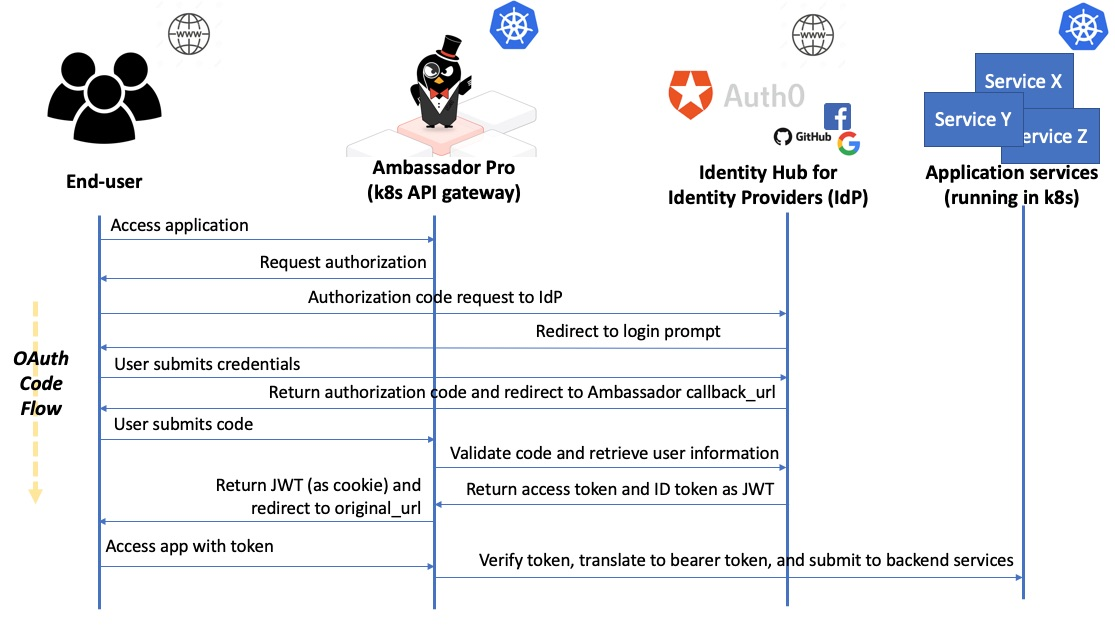
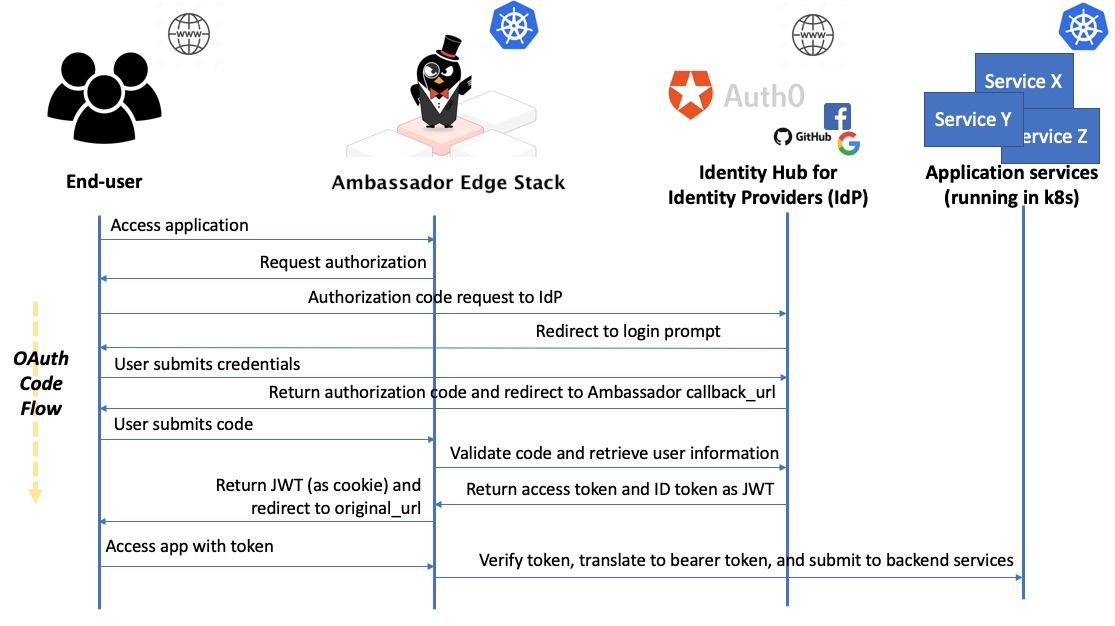
fixing lots of broken links and small issues

Changed region(s): [[0.2744, 0.2428, 0.5184, 0.3339]]

diff --git a/reference/debugging.md b/reference/debugging.md
@@ -19,8 +19,7 @@ If Ambassador Edge Stack is not starting or is not behaving as you would expect,
 * You want to manually change and experiment with the generated Envoy configuration
   * [Exec into an Ambassador Edge Stack Pod](#a-nameexamining-podaexamining-an-ambassadorenvoy-pod-and-container) and [manually experiment](#a-namemanually-experimentinga-manually-experimenting-with-ambassador--envoy-configuration) with changing the Envoy configuration and sending a SIGHUP to the parent process
 
-
-## <a name="example-config"></a>Example Config for Debug Demonstrations
+## Example Config for Debug Demonstrations
 
 The following debugging instructions assume that Ambassador Edge Stack and the following services from the
 [getting started guide](/user-guide/getting-started) have been deployed to a Kubernetes cluster.
@@ -69,7 +68,7 @@ And apply this into your cluster, e.g.:
 $ kubectl apply -f ambassador-services.yaml
 ```
 
-## <a name="check-running"></a>Checking Ambassador Edge Stack is running
+### Checking Ambassador Edge Stack is running
 
 If you cannot access the [diagnostics console](/reference/diagnostics) via ```kubectl port-forward <ambassador_pod_name> 8877```
 the first thing to check is that Ambassador Edge Stack is running. This can be achieved via
@@ -184,7 +183,7 @@ Events:
   Normal  Started                4m    kubelet, gke-ambassador-demo-default-pool-912378e5-dkxc  Started container
 ```
 
-## <a name="logs"></a>Getting Access to the Ambassador Edge Stack Logs
+### Getting Access to the Ambassador Edge Stack Logs
 
 The Ambassador Edge Stack logs can provide a lot of information if something isn't behaving as expected. There can be a lot of text to parse (especially when running in debug mode), but key information to look out for is the Ambassador Edge Stack process restarting unexpectedly, or malformed Envoy configuration.
 
@@ -212,7 +211,7 @@ $ kubectl logs ambassador-85c4cf67b-4pfj2
 
 By using the [Ambassador diagnostics console](/reference/diagnostics) you can click a button to "Set Debug On", and this causes Ambassador Edge Stack to generate a lot more logging. This can be useful when tracking down a particularly subtle bug.
 
-## <a name="examining-pod"></a>Examining an Ambassador Edge Stack/Envoy Pod and Container
+### Examining an Ambassador Edge Stack/Envoy Pod and Container
 
 It can sometimes be useful to examine the contents of the Ambassador Edge Stack Pod, for example, to check volume mounts are correct (e.g. TLS certificates are present in the required directory), to determine the latest Ambassador Edge Stack configuration has been sent to the Pod, or that the generated Envoy configuration is correct (or as expected).
 
@@ -290,7 +289,7 @@ The Envoy Proxy configuration that was generated from the Ambassador Edge Stack 
               {
 ```
 
-## <a name="manually-experimenting"></a> Manually Experimenting with Ambassador Edge Stack / Envoy configuration
+### Manually Experimenting with Ambassador Edge Stack / Envoy configuration
 
 If the generated Envoy configuration is not looking as expected, you can manually tweak this and restart the Envoy process. The general approach to this is to scale down the Ambassador Edge Stack Deployment to a single Pod in order to send all Ambassador Edge Stack traffic through this single instance (which is not recommended in production!), exec into the Pod and make the modification to the `envoy/envoy.json`. Then, restart the `ambex` process which will pass the updated `envoy.json` to Envoy. You can do this by getting the PID of `ambex` with `ps -ef | grep ambex`. Then run `kill -HUP $AMBEX_PID` to restart `ambex`.
 

diff --git a/concepts/auth-overview.md b/concepts/auth-overview.md
@@ -4,7 +4,7 @@ The implementation of an effective authentication strategy is vital to any appli
 
 Typically with web applications the authentication is implemented at the edge, either via an API/edge gateway, or via a top-level request filter within your application framework. It is also increasingly common for applications to use external identity providers -- such as Google, GitHub, or Facebook -- typically via an Identity hub like [Auth0](https://auth0.com/), [Keycloak](https://www.keycloak.org/) or [Okta](https://www.okta.com/) that provides authentication-as-a-service, rather than taking on the high cost (and risk) of maintaining their own identity database.
 
-This article is focused on implementing authentication at the edge with the Kubernetes-native [Ambassador Edge Stack API gateway](https://www.getambassador.io/pro/), and shows an example of how to integrate this with third-party identity providers.
+This article is focused on implementing authentication at the edge with the Kubernetes-native Ambassador Edge Stack API gateway, and shows an example of how to integrate this with third-party identity providers.
 
 ## How Ambassador Edge Stack Integrates with OAuth and OIDC
 
@@ -28,11 +28,12 @@ If you look back at the authentication process diagram, the function of the enti
 
 ## Why Use an Identity Hub like Auth0 or Keycloak?
 
-Using an identity hub or broker allows you to support many IdPs without having to code individual integrations with them. For example, [Auth0](https://auth0.com/docs/identityproviders) and [Keycloak](https://www.keycloak.org/docs/2.5/server_admin/topics/identity-broker/social-login.html) both offer support for using Google and GitHub as an IdP.
+Using an identity hub or broker allows you to support many IdPs without having to code individual integrations with them. For example, [Auth0](https://auth0.com/docs/identityproviders) and [Keycloak](https://www.keycloak.org/docs/latest/server_admin/index.html#social-identity-providers) both offer support for using Google and GitHub as an IdP.
 
 An identity hub sits between your application and the IdP that authenticates your users, which not only adds a level of abstraction so that your application (and Ambassador Edge Stack) is isolated from any changes to each provider's implementation, but it also allows your users to chose which provider they use to authenticate (and you can set a default, or restrict these options).
 
-The Auth0 docs provide a guide for adding social IdP "[connections](https://auth0.com/docs/identityproviders)" to your Auth0 account, and the Keycloak docs provide a guide for adding social identity "[brokers](https://www.keycloak.org/docs/2.5/server_admin/topics/identity-broker/social-login.html)".
+The Auth0 docs provide a guide for adding social IdP "[connections](https://auth0.com/docs/identityproviders)" to your Auth0 account, and the Keycloak docs provide a guide for adding social identity "[brokers](https://www.keycloak.org/docs/latest/server_admin/index.html#social-identity-providers)".
 
-## Learn More With the Ambassador Edge Stack and Auth0 Tutorial\
+## Learn More With the Ambassador Edge Stack and Auth0 Tutorial
+
 You can learn more from the [Single Sign-On with OAuth & OIDC](/user-guide/oauth-oidc-auth) tutorial, which also contains a full walkthrough of how to configure Ambassador Edge Stack with Auth0.

diff --git a/user-guide/install-ambassador-oss.md b/user-guide/install-ambassador-oss.md
@@ -1,6 +1,6 @@
 # Ambassador Open Source Software (OSS)
 
-In this tutorial, we'll walk through the process of deploying Ambassador Open Source in Kubernetes for ingress routing. Ambassador OSS provides all the functionality of a traditional ingress controller (i.e., path-based routing) while exposing many additional capabilities such as [authentication](/user-guide/auth-tutorial), URL rewriting, CORS, rate limiting, and automatic metrics collection (the [mappings reference](/reference/mappings) contains a full list of supported options). Note that Ambassador Edge Stack can be used as an [Ingress Controller](/user-guide/ingress-controller).
+In this tutorial, we'll walk through the process of deploying Ambassador Open Source in Kubernetes for ingress routing. Ambassador OSS provides all the functionality of a traditional ingress controller (i.e., path-based routing) while exposing many additional capabilities such as [authentication](/user-guide/auth-tutorial), URL rewriting, CORS, rate limiting, and automatic metrics collection (the [mappings reference](/reference/mappings) contains a full list of supported options). Note that Ambassador Edge Stack can be used as an [Ingress Controller](/reference/core/ingress-controller).
 
 For more background on Kubernetes ingress, [read this blog post](https://blog.getambassador.io/kubernetes-ingress-nodeport-load-balancers-and-ingress-controllers-6e29f1c44f2d).
 
@@ -103,6 +103,8 @@ Deploy this service with `kubectl`:
 <pre class="language-shell">
 <code class="language-shell" id="step6">
 $ kubectl apply -f ambassador-service.yaml</code></pre></div>
+<p>
+<p>
 <button onclick="copy_to_clipboard('step6')">Copy to Clipboard</button>
 
 The YAML above creates a Kubernetes service for Ambassador Open Source of type `LoadBalancer`, and configures the `externalTrafficPolicy` to propagate [the original source IP](https://kubernetes.io/docs/tasks/access-application-cluster/create-external-load-balancer/#preserving-the-client-source-ip) of the client. All HTTP traffic will be evaluated against the routing rules you create. Note that if you're not deploying in an environment where `LoadBalancer` is a supported type (such as minikube), you'll need to change this to a different type of service, e.g., `NodePort`.
@@ -184,6 +186,8 @@ spec:
       - request_label:
         - backend
 </code></pre></div>
+<p>
+<p>
 <button onclick="copy_to_clipboard('step7')">Copy to Clipboard</button>
 
 Then, apply it to the Kubernetes with `kubectl`:
@@ -225,6 +229,8 @@ To test things out, we'll need the external IP for Ambassador Open Source (it mi
 <pre class="language-shell">
 <code class="language-shell" id="step10">
 kubectl get svc -o wide ambassador</code></pre></div>
+<p>
+<p>
 <button onclick="copy_to_clipboard('step10')">Copy to Clipboard</button>
 
 Eventually, this should give you something like:
@@ -284,6 +290,8 @@ spec:
     diagnostics:
       enabled: false
 </code></pre></div>
+<p>
+<p>
 <button onclick="copy_to_clipboard('step11')">Copy to Clipboard</button>
 
 After applying this `Module`, to view the diagnostics UI, we'll need to get the name of one of the Ambassador Open Source pods:

diff --git a/user-guide/helm.md b/user-guide/helm.md
@@ -17,5 +17,84 @@ This method of installation has not been tested and is not supported at this tim
    
    Details on how to configure the chart, see the [official chart documentation](https://hub.helm.sh/charts/stable/ambassador)
 
+<div style="border: thick solid red">
+<!-- TODO: fix red bordered text -->
+Next step took service creation from AmbOSS so not sure if this needs to be changed to work for AES
+</div>
 
-2. Jump to [step 3](/user-guide/getting-started#3-creating-your-first-service) of the Ambassador Edge Stack tutorial to create your first service.
+2. Create your first service(s) based on what you need. For example, here are some of the services you can create with Ambassador Edge Stack:
+
+    <div class="gatsby-highlight" data-language="yaml">
+    <pre class="language-yaml">
+    <code class="language-yaml" id="step7">
+    ---
+    apiVersion: v1
+    kind: Service
+    metadata:
+    name: tour
+    spec:
+    ports:
+    - name: ui
+        port: 5000
+        targetPort: 5000
+    - name: backend
+        port: 8080
+        targetPort: 8080
+    selector:
+        app: tour
+    ---
+    apiVersion: apps/v1
+    kind: Deployment
+    metadata:
+    name: tour
+    spec:
+    replicas: 1
+    selector:
+        matchLabels:
+        app: tour
+    strategy:
+        type: RollingUpdate
+    template:
+        metadata:
+        labels:
+            app: tour
+        spec:
+        containers:
+        - name: tour-ui
+            image: quay.io/datawire/tour:ui-$tourVersion$
+            ports:
+            - name: http
+            containerPort: 5000
+        - name: quote
+            image: quay.io/datawire/tour:backend-$tourVersion$
+            ports:
+            - name: http
+            containerPort: 8080
+            resources:
+            limits:
+                cpu: "0.1"
+                memory: 100Mi
+    ---
+    apiVersion: getambassador.io/v2
+    kind: Mapping
+    metadata:
+    name: tour-ui
+    spec:
+    prefix: /
+    service: tour:5000
+    ---
+    apiVersion: getambassador.io/v2
+    kind: Mapping
+    metadata:
+    name: tour-backend
+    spec:
+    prefix: /backend/
+    service: tour:8080
+    labels:
+        ambassador:
+        - request_label:
+            - backend
+    </code></pre></div>
+<p>
+<p>
+<button onclick="copy_to_clipboard('step7')">Copy to Clipboard</button>

diff --git a/user-guide/bare-metal.md b/user-guide/bare-metal.md
@@ -3,13 +3,15 @@
 This method of installation has not been tested and is not supported at this time.
 </div>
 
-# Deploying Ambassador Edge Stack on a Bare Metal Kubernetes Installation
+# Bare Metal Kubernetes Installation
 
 In cloud environments, provisioning a readily available network load balancer with Ambassador Edge Stack is the best option for handling ingress into your Kubernetes cluster. When running kubernetes on a bare-metal setup, where network load balancers are not available by default, we need to consider different options for exposing Ambassador Edge Stack.
 
 ## Exposing Ambassador via NodePort
 
-The simplest way to expose an application in Kubernetes is via a `NodePort` service. In this configuration, we create the [Ambassador Edge Stack service](/user-guide/getting-started#2-defining-the-ambassador-service) and identify `type: NodePort` instead of `LoadBalancer`. Kubernetes will then create a service and assign that service a port to be exposed externally and direct traffic to Ambassador Edge Stack via the defined `port`.
+The simplest way to expose an application in Kubernetes is via a `NodePort` service. In this configuration, we create the Ambassador Edge Stack service and identify `type: NodePort` instead of `LoadBalancer`. Kubernetes will then create a service and assign that service a port to be exposed externally and direct traffic to Ambassador Edge Stack via the defined `port`.
+
+Create the following YAML and put it in a file called `ambassador-service.yaml`.
 
 ```yaml
 ---
@@ -29,7 +31,7 @@ spec:
     service: ambassador
 ```
 
-Using a `NodePort` leaves Ambassador Edge Stack isolated from the host network, allowing the Kubernetes service to handle routing to Ambassador Edge Stack pods. You can drop-in this yaml to replace the `LoadBalancer` service in the [YAML installation guide](/user-guide/getting-started) and use `http://<External-Node-IP>:<NodePort>/` as the host for requests. 
+Using a `NodePort` leaves Ambassador Edge Stack isolated from the host network, allowing the Kubernetes service to handle routing to Ambassador Edge Stack pods. You can use `http://<External-Node-IP>:<NodePort>/` as the host for requests. 
 
 ## Exposing Ambassador Edge Stack via Host Network
 

diff --git a/user-guide/downloads.md b/user-guide/downloads.md
@@ -5,23 +5,3 @@ To download `Edgectl` to configure the Ambassador Edge Stack interface, download
 * MacOS: https://metriton.datawire.io/downloads/darwin/edgectl
 
 * Linux: https://metriton.datawire.io/downloads/linux/edgectl
-
-## MacOS Permissions Error
-
-When you try to open the `Edgectl` file from your Ambassador Edge Stack UI, it may indicate that `Edgectl` is not safe to download and run. The command from the initial Ambassador Edge Stack UI pages (`edgectl login <your IP>`) also may not be recognized as a command.
-
-To successfully install and run `Edgectl`:
-
-1. From the Ambassador Edge Stack UI, click on the Darwin link to download the file for MacOS, or click the MacOS link above.
-2. Find the file where it downloaded and move it to the repository where your Ambassador Edge Stack files are located.
-3. In your command line interface, navigate to your Ambassador Edge Stack files.
-    * Use `ls` to list what items are available to you. Use `cd <folder>` to navigate into a folder, or just `cd` to move up towards your home directory. For example, `cd documents/github/my repo` moves you into the "my repo" folder.
-4. The file *is* executable, but MacOS will not allow you to run it. You will see "Permission denied" when you run the following command: `./edgectl login <your IP>`
-5. To make `Edgectl` an executable that you can run, use following command: `chmod a+x edgectl` and then `./edgectl login <your IP>`
-6. A warning popup will appear indicating that the file is not from a verified developer. Click the "OK" button.
-7. To allow permission, go to MacOS System Preferences > Security & Privacy > "Allow Apps downloaded from" > App Store. You may need to unlock with your password to change this setting.
-8. You will see a message indicating that `edgectl` was recently blocked. Click the "Allow Anyway" button that is present.
-9. Return to the command line tool and run `./edgectl login <your IP>`
-10. When the Warning dialog appears, click the "Open" button.
-
-You should see a success message for `Edgectl` which will open your Ambassador Edge Stack UI.

diff --git a/user-guide/advanced-rate-limiting.md b/user-guide/advanced-rate-limiting.md
@@ -12,16 +12,12 @@ Like Ambassador, the Ambassador RLS is designed so that many different teams, wi
 
 In Ambassador Edge Stack, each request can have multiple *labels*. Labels are arbitrary key/value pairs that contain any metadata about a given request, e.g., its IP, a hard-coded value, the path of the request, and so forth. The Rate Limit Service processes these labels and enforces any limits that are set on a label. Labels can be assigned to *domains*, which are separate namespaces. Typically, different teams would be responsible for different domains.
 
-
-
 ## Configuring Rate Limiting: The 50,000 foot view
 
 Logically, configuring rate limiting is straightforward.
 
 1. Configure a specific mapping to include one or more request labels.
 2. Configure a limit for a given request label with the `RateLimit` resource.
-
-In the examples below, we'll use the backend service of the tour sample application used in the [Getting Started](https://www.getambassador.io/user-guide/getting-started#3-creating-your-first-service).
 
 ## Example 1: Global rate limiting for availability
 
@@ -97,7 +93,7 @@ spec:
      unit: minute
 ```
 
-Note for this to work, you need to make sure you've properly configured Ambassador Edge Stack to [propagate your original client IP address](https://www.getambassador.io/reference/core/ambassador/#use_remote_address).
+Note for this to work, you need to make sure you've properly configured Ambassador Edge Stack to [propagate your original client IP address](/reference/core/ambassador/#use_remote_address).
 
 ## Example 3: Load shedding GET requests
 

diff --git a/reference/config-format.md b/reference/config-format.md
@@ -4,11 +4,10 @@ Ambassador exposes three methods for configuration.
 
 - [Ambassador Customer Resource Definitions (CRDs)](/reference/core/crds)
 - [Kubernetes Service Annotations](/reference/core/annotations)
-- [Kubernetes Ingress Resource](/reference/core/ingress-controller)
+- [Ambassador as an Ingress Resource](/reference/core/ingress-controller)
 
 For most use cases, CRDs are the recommended configuration format since they directly expose all configuration options in a format that allows them to be managed as a separate object by Kubernetes. Because of this, all example configuration in the documentation is presented in CRD format. See [translating CRDs to annotations](/reference/core/annotations#crd-translation) to translate CRD examples to Service annotations.
 
 Since CRDs are a cluster-wide resource you need admin access to your cluster to install them. If you do not have the necessary cluster permissions to do this using Service annotations or Ingress resources are still available to you.
 
 See the individual documentation for more information.
-

diff --git a/user-guide/auth-tutorial.md b/user-guide/auth-tutorial.md
@@ -6,10 +6,7 @@ Ambassador Edge Stack can authenticate incoming requests before routing them to 
 
 This tutorial assumes you have already followed the [Ambassador Edge Stack Getting Started](/user-guide/getting-started) guide. If you haven't done that already, you should do that now.
 
-After completing [Getting Started](/user-guide/getting-started), you'll have a Kubernetes cluster running Ambassador Edge Stack and the tour service. Let's walk through adding authentication to this setup.
-
-Want to use all the features without worrying about passing the limit? [Ambassador Edge Stack Enterprise](/user-guide/ambassador-edge-stack-enterprise) allows you to use Ambassador Edge Stack for commericial and unlimited use. 
-
+Once complete, you'll have a Kubernetes cluster running Ambassador Edge Stack and the tour service. Let's walk through adding authentication to this setup.
 
 ## 1. Deploy the authentication service
 

diff --git a/about/why-ambassador.md b/about/why-ambassador.md
@@ -2,7 +2,7 @@
 
 Ambassador Edge Stack is an open source, Kubernetes-native [microservices API gateway](/about/microservices-api-gateways) built on the [Envoy Proxy](https://www.envoyproxy.io). Ambassador Edge Stack is built from the ground up to support multiple, independent teams that need to rapidly publish, monitor, and update services for end users. Ambassador Edge Stack can also be used to handle the functions of a Kubernetes ingress controller and load balancer (for more, see [this blog post](https://blog.getambassador.io/kubernetes-ingress-nodeport-load-balancers-and-ingress-controllers-6e29f1c44f2d)).
 
-Or, read the documentation on using Ambassador Edge Stack as an [Ingress Controller](/user-guide/ingress-controller).
+Or, read the documentation on using Ambassador Edge Stack as an [Ingress Controller](/reference/core/ingress-controller).
 
 ## Cloud-native applications today
 

diff --git a/user-guide/grpc.md b/user-guide/grpc.md
@@ -314,4 +314,4 @@ headers:
 
 Some [Kubernetes ingress controllers](https://kubernetes.io/docs/concepts/services-networking/ingress/) do not support HTTP/2 fully. As a result, if you are running Ambassador with an ingress controller in front, you may find that gRPC requests fail even with correct Ambassador Edge Stack configuration.
 
-A simple way around this is to use Ambassador Edge Stack with a `LoadBalancer` service, rather than an Ingress controller. You can also consider using [Ambassador Edge Stack as your Ingress Controller](/user-guide/ingress-controller).
+A simple way around this is to use Ambassador Edge Stack with a `LoadBalancer` service, rather than an Ingress controller. You can also consider using [Ambassador Edge Stack as your Ingress Controller](/reference/core/ingress-controller).

diff --git a/user-guide/getting-started.md b/user-guide/getting-started.md
@@ -93,7 +93,7 @@ Go to `http://&lt;your-host-name&gt;` and follow the instructions to complete th
 
 You will need to install the `edgectl` tool in order to fully configure your Ambassador Edge Stack UI. If you are having trouble downloading the files, you can download them directly from [this page](/user-guide/downloads).
 
-If you are deploying on a MacOS, follow [these instructions](/user-guide/downloads#section-macos-permissions-error) to install `Edgectl`.
+If you are deploying on a MacOS Catalina, follow [these instructions](/user-guide/downloads#section-macos-catalina-permissions-error) to install `Edgectl`.
 
 ## Next Steps
 
